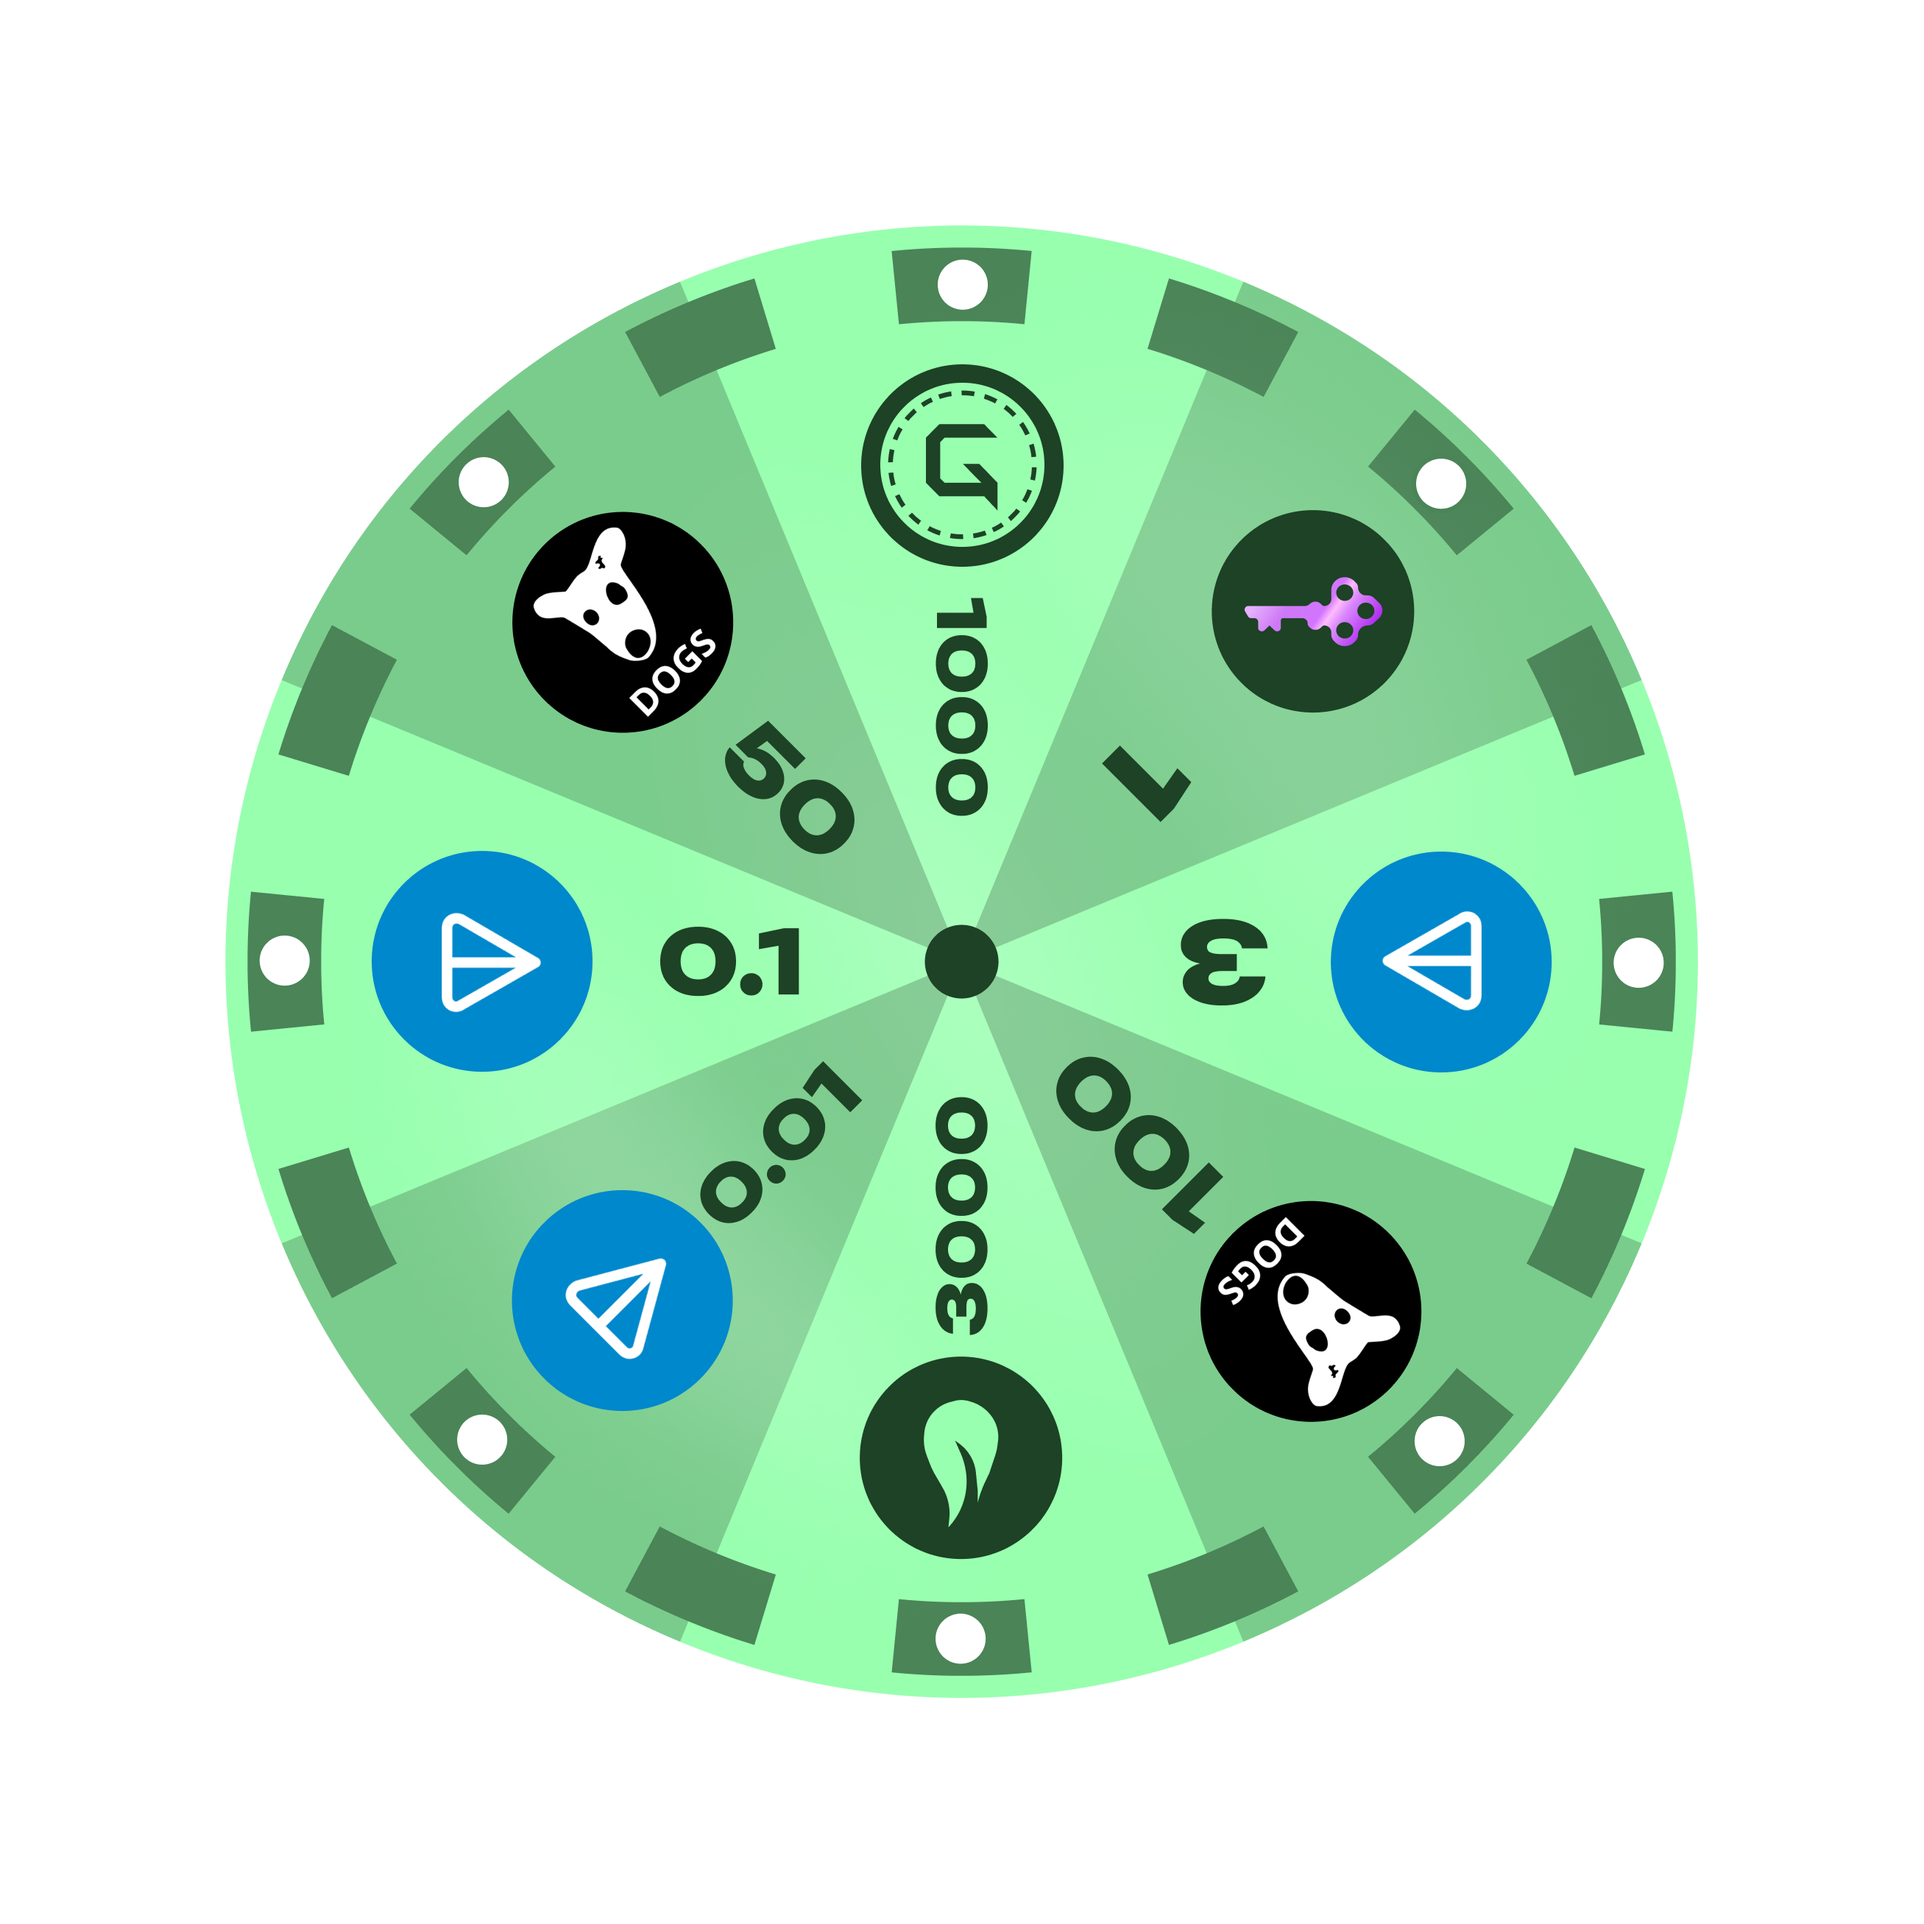
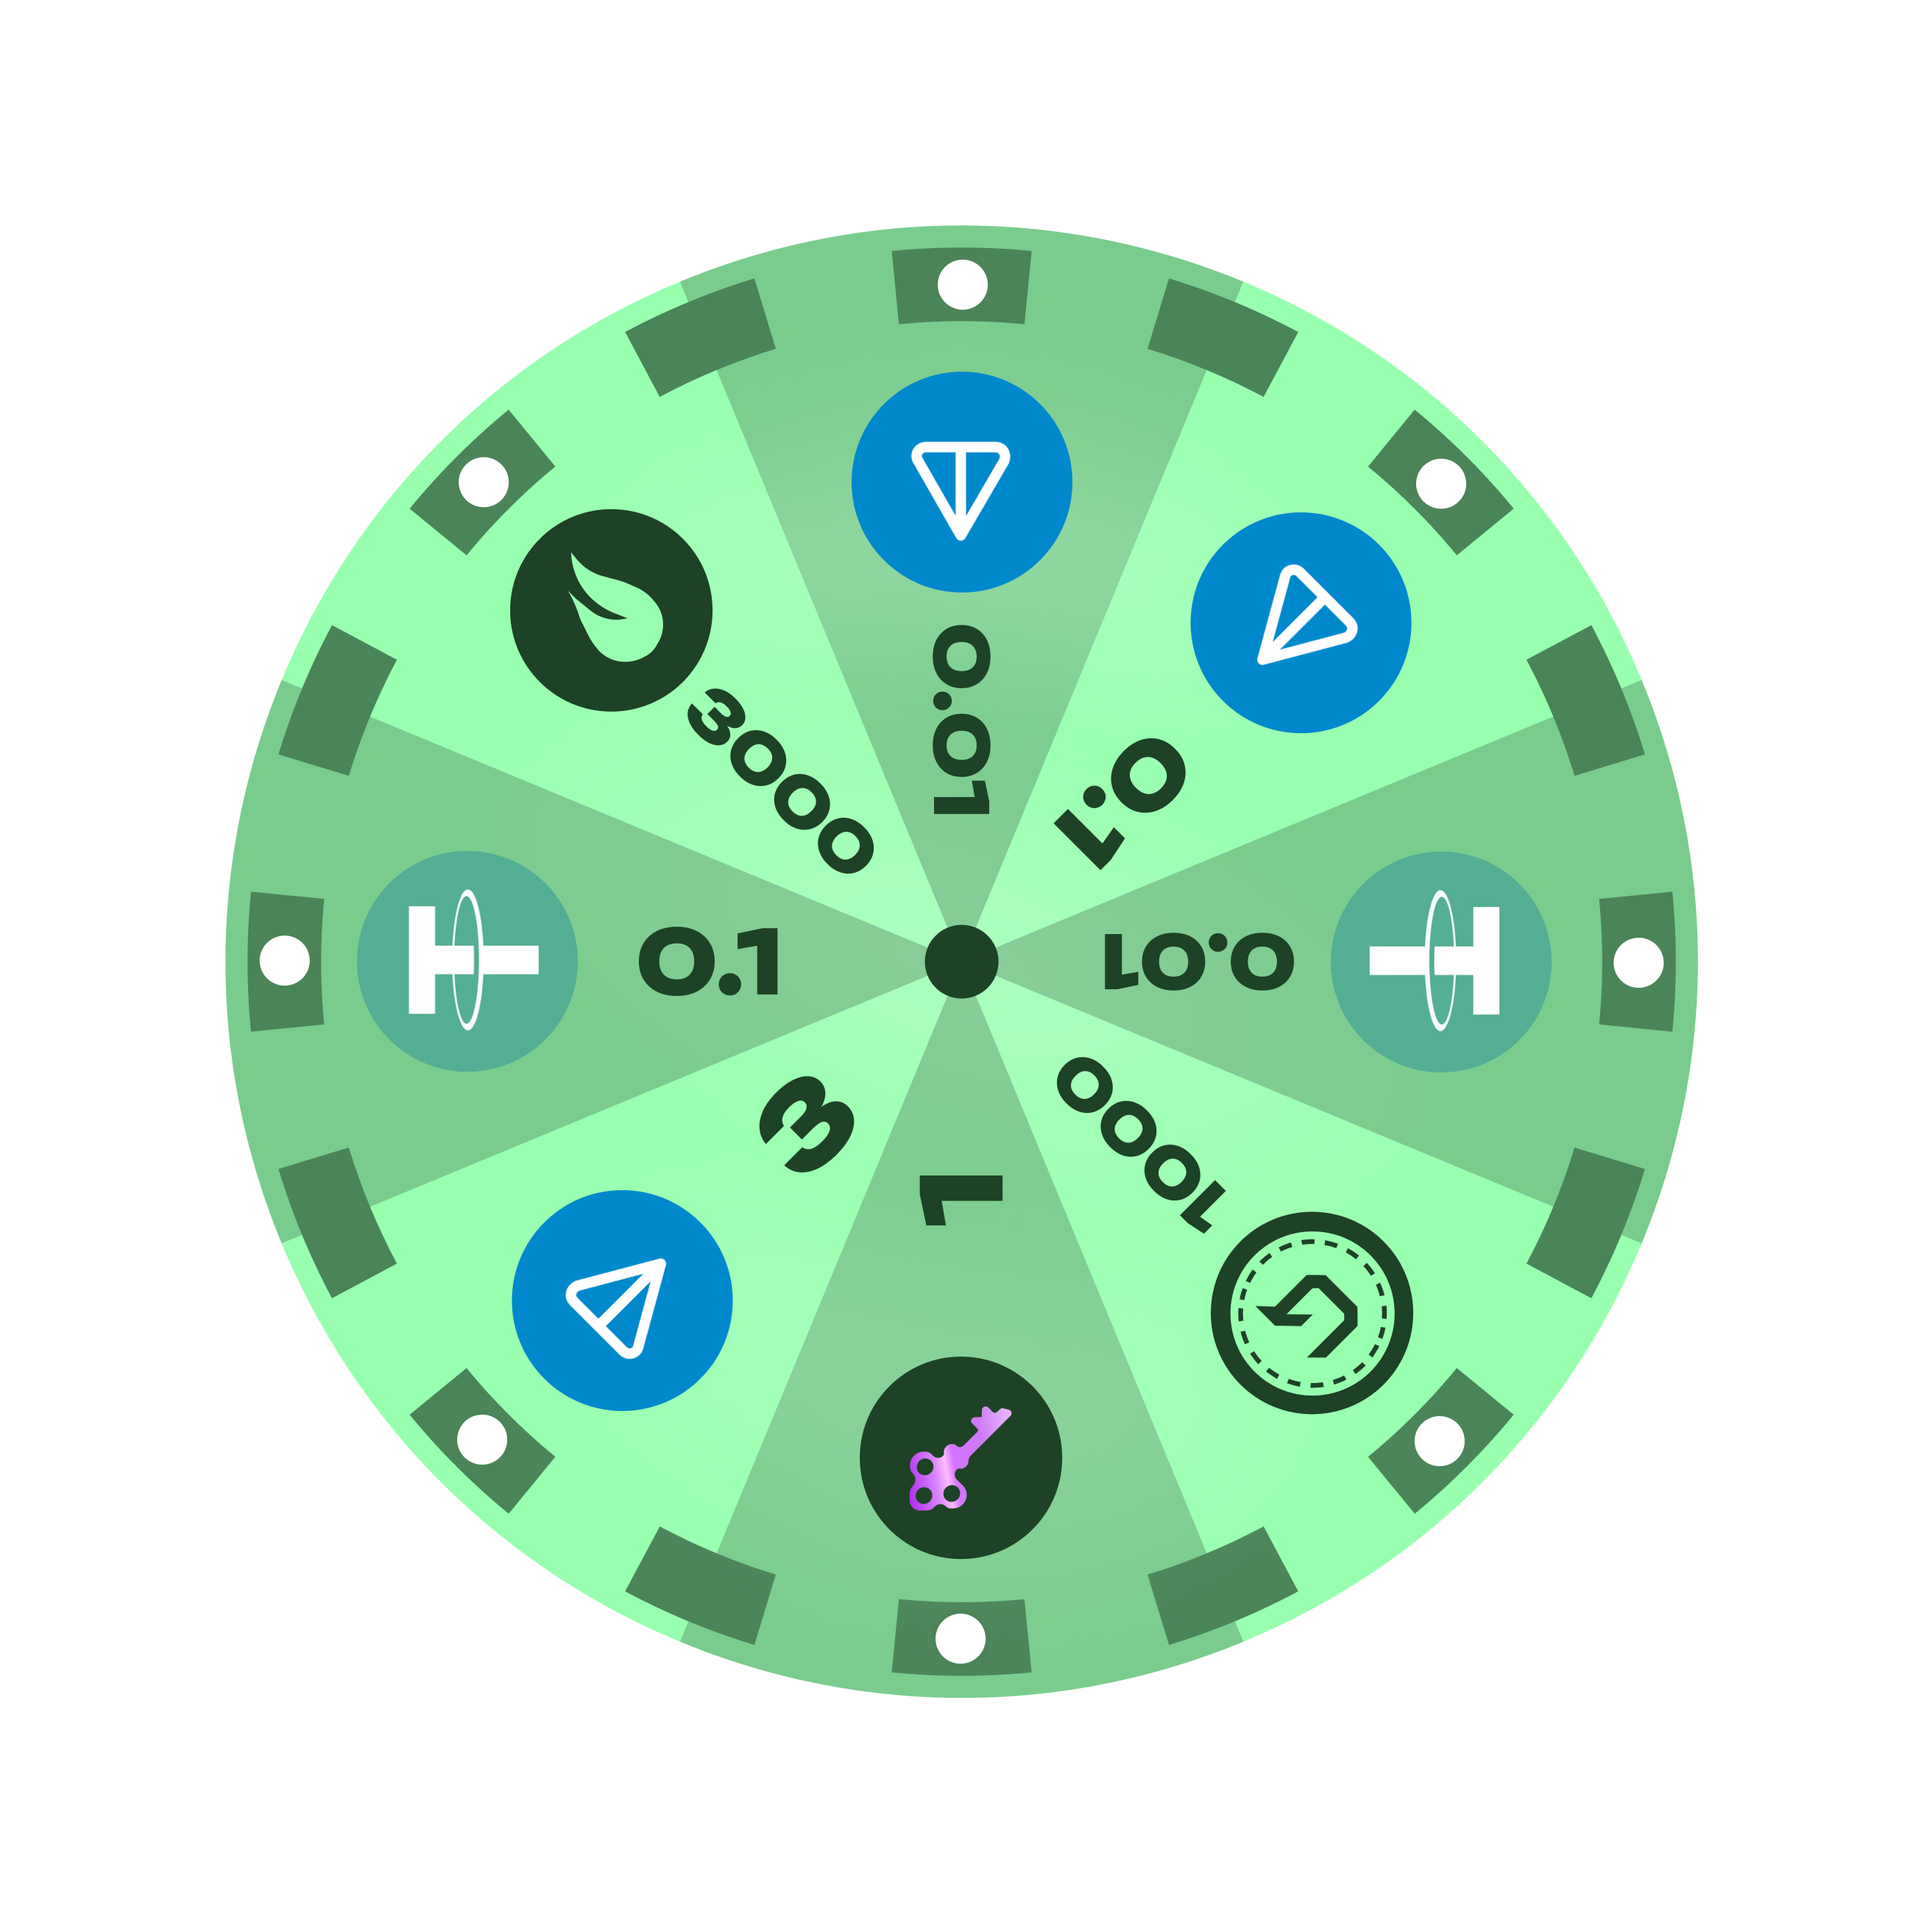
Migration FIXs

diff --git a/style.css b/style.css
@@ -2302,26 +2302,6 @@ to {
     margin-top: 8%;
 }
 
-.wheelBGWr {
-    display: none;
-    margin: auto;
-    width: 90%;
-    height: auto;
-}
-
-.wheelBG {
-    display: flex;
-    flex-direction: column;
-    margin-top: 10%;
-    height: auto;
-    align-items: center;
-    justify-content: center;
-}
-
-.wheelBG img {
-    width: 100%;
-}
-
 .popUPwindowDaily {
     display: none;
     flex-direction: column;
@@ -2479,4 +2459,42 @@ to {
 
 .boxImageTxtDaily img { 
     width: 15%;
+}
+
+.wheelBGWr {
+    display: none;
+    margin-top: 10%;
+    align-self: center;
+    width: 98%;
+    height: auto;
+}
+
+.wheelBG {
+    display: flex;
+    flex-direction: column;
+    margin: auto;
+    height: auto;
+    align-items: center;
+    justify-content: center;
+}
+
+.wheelBG img {
+    width: 100%;
+}
+
+.WOFarrow {
+    display: flex; /* Keep this for centering */
+    position: relative; /* Relative positioning for child elements */
+    width: 100%; /* Ensure it takes full width for centering */
+    height: auto; /* Allow height to adjust automatically */
+}
+
+.WOFarrow img {
+    position: absolute; /* Positioning it absolutely */
+    top: 0; /* Align to the top */
+    left: 50%; /* Center horizontally */
+    transform: translateX(-50%); /* Adjust for centering */
+    width: 8%; /* Set desired width */
+    height: auto; /* Maintain aspect ratio */
+    z-index: 10011; /* Ensure it's on top of other elements */
 }

diff --git a/app.js b/app.js
@@ -151,7 +151,7 @@ document.addEventListener('DOMContentLoaded', function() {
         
             let randomNumber = getRandomNumber(-10, 10);
            
-            let totalRotations = 1080 + 180 + randomNumber; // Total degrees to spin
+            let totalRotations = 1080 + 135 + randomNumber; // Total degrees to spin
             let duration = 3000; // Total duration of the spin in milliseconds
             let frames = 1000; // Number of frames for the animation
             let interval = duration / frames; // Time between each frame
@@ -559,7 +559,9 @@ document.addEventListener('DOMContentLoaded', function() {
             
             let allowed = [1230802550, 6917022146];
 
-            let flagAllowed = allowed.includes(tg.WebApp.initDataUnsafe.user.id);
+            if (tg.WebApp.initData !== undefined && tg.WebApp.initData !== null && tg.WebApp.initData !== "") {
+                var flagAllowed = allowed.includes(tg.WebApp.initDataUnsafe.user.id);
+            };
 
             dailyBtn.onclick = function() {
                 dailyWindow.style.display = 'flex';

diff --git a/index.html b/index.html
@@ -693,7 +693,10 @@
         </div>
         <div class="wheelBGWr" id="wheelBG">
             <div class="wheelBG">
-                <img src="./images/wheel.png" id="wheelIMG"></img>
+                <div class="WOFarrow">
+                    <img src="./images/WOFarrow.svg" id="WOFarrow" alt="WOF Arrow">
+                </div>
+                <img src="./images/wheel.png" id="wheelIMG" alt="Wheel">
                 <div class="boostBtnsWr0">
                     <div class="boostBtns" id="spinWheelBtn">
                         <span>SPIN</span>
